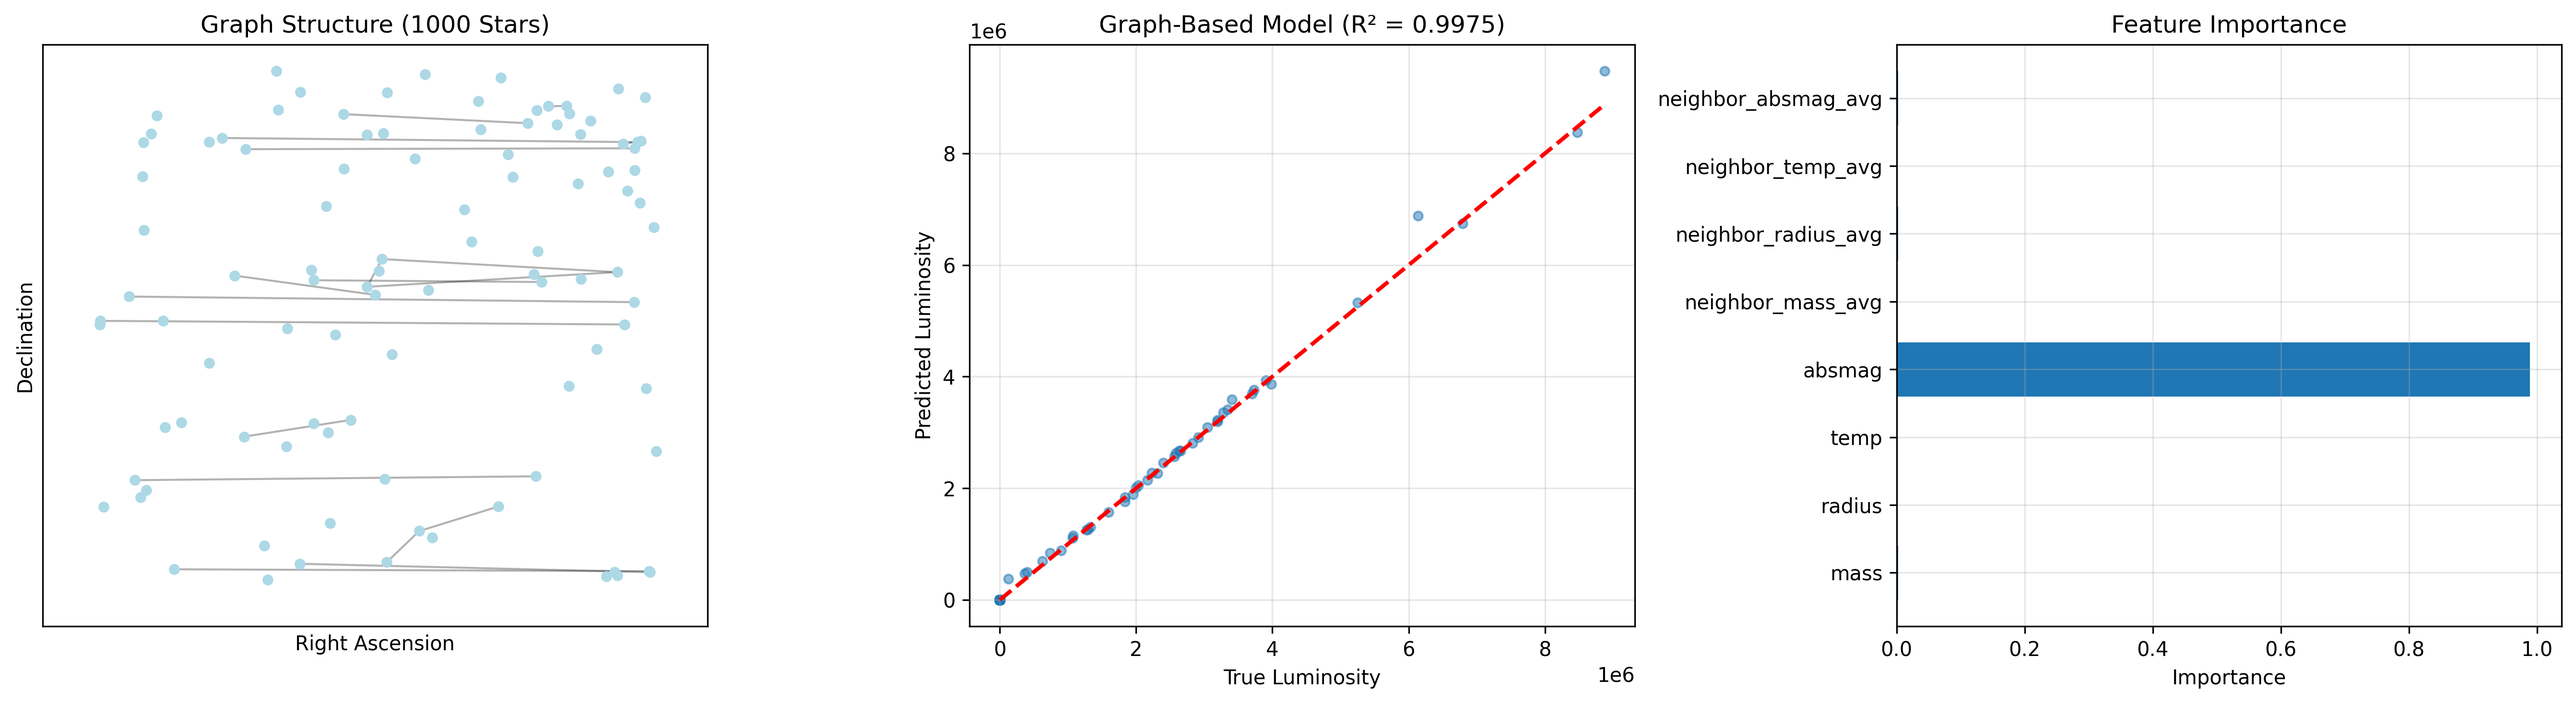
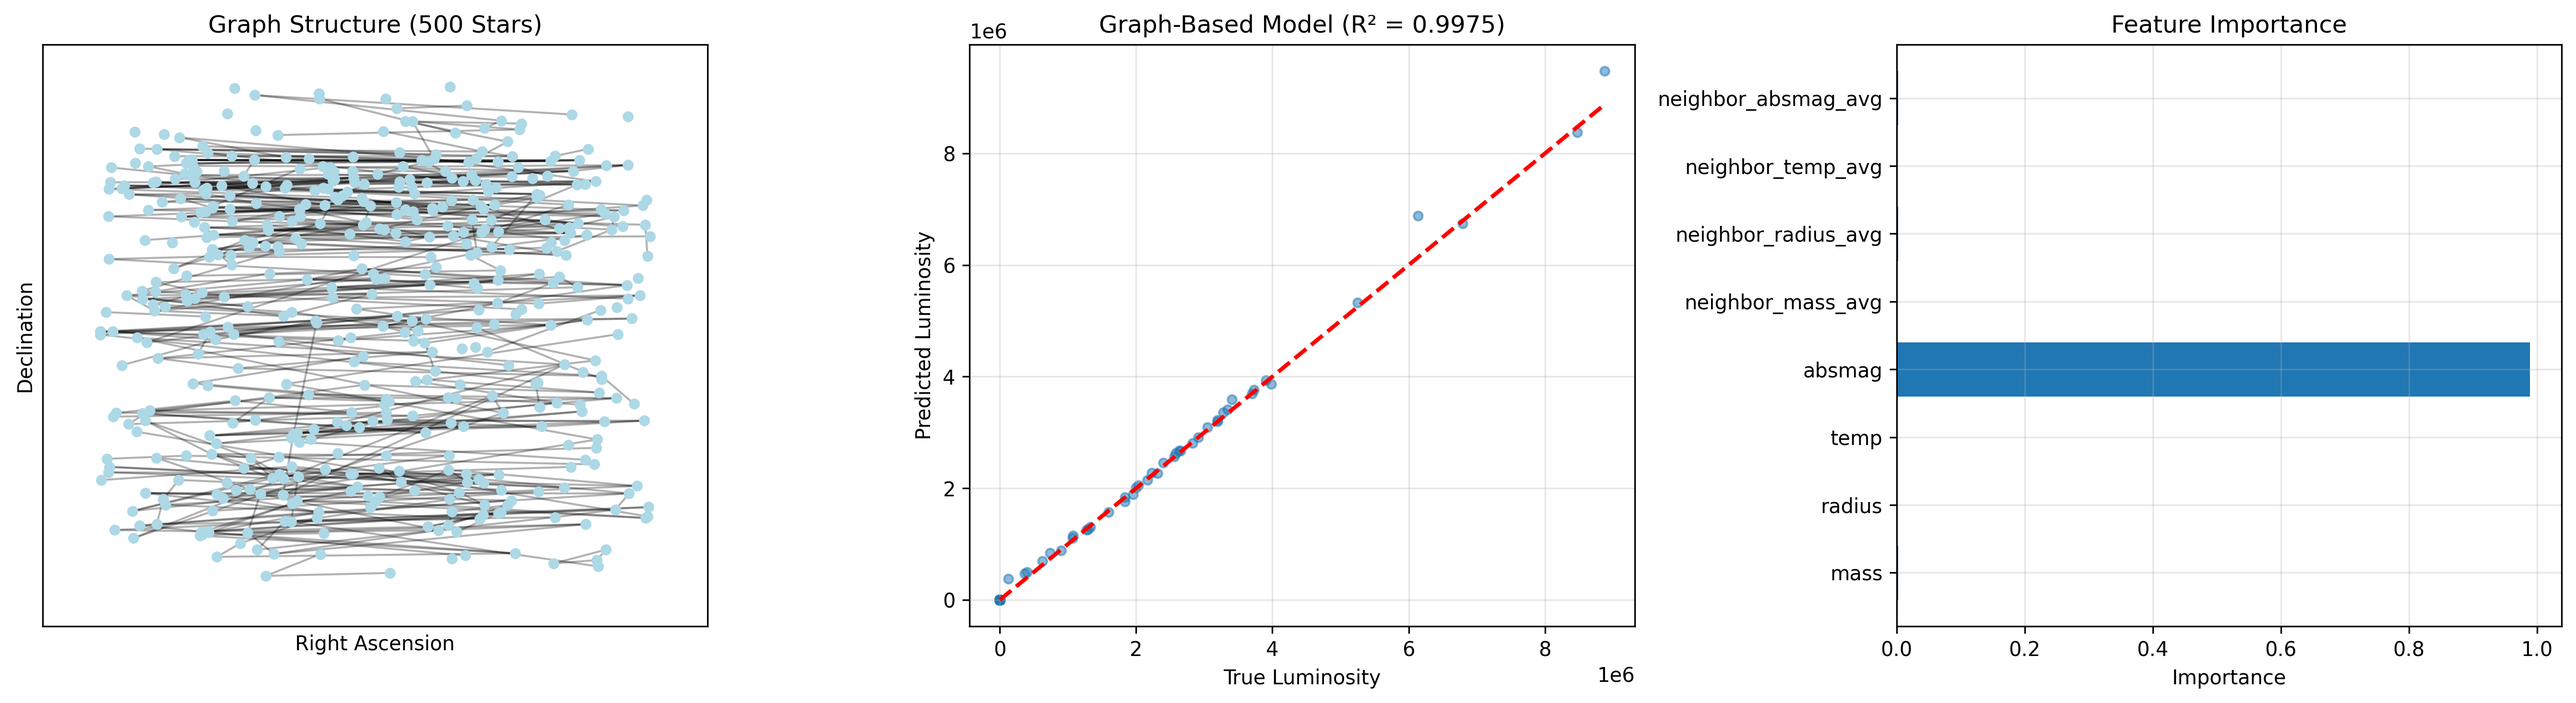
Comments

Changed region(s): [[0.0311, 0.1228, 0.2799, 0.8288], [0.0622, 0.0, 0.2177, 0.0614]]

diff --git a/model/star_model.py b/model/star_model.py
@@ -45,11 +45,6 @@ class MLModel(ABC):
         self.y_pred = None #Predictions
         self.feature_names = [] #Features to be analyzed and learned from by the model
 
-    # @abstractmethod
-    # def execute_model(self):
-    #     pass
-    #     #Each model defines this
-
     @abstractmethod
     def set_data(self):
         pass
@@ -159,14 +154,6 @@ class TradModel(MLModel):
         self.feature_names = self.required_features.copy() #Feature names
         # (A copy of the features so the features themselves can be accessed without the names being affected.)
 
-    # def execute_model(self):
-    #     print(f"\nExecuting Traditional ML Model...\n") # Context
-    #     self.set_data()
-    #     self.train_model()
-    #     self.evaluate_model()
-    #     self.visualize_model()
-    #     self.get_featimp()
-    #     print('=='*60)
 
     #Sets the data to be used
     def set_data(self):
@@ -331,9 +318,9 @@ class TradModel(MLModel):
 '''================================================================================================================================================================'''
 
 class GraphModel(MLModel):
-    #All aspects not explicitly explained are such because they have been explained in the previous model
+    # All aspects not explicitly explained are such because they have been explained in the previous model
 
-    #K-Neighbors are the 5 closest neighbors in terms of value similarity
+    #K-Neighbors are the 5 closest neighbors in 3D space
     def __init__(self, csv_path=file_path, nrows=None, k_neighbors=5):
         super().__init__(csv_path, nrows)
         self.required_features = ['ra', 'dec', 'mass', 'radius', 'temp', 'dist', 'absmag', 'lum']
@@ -342,14 +329,6 @@ class GraphModel(MLModel):
         # Certain features will be added by the model itself, so their names are specified here.
         self.feature_names = ['mass', 'radius', 'temp', 'absmag', 'neighbor_mass_avg', 'neighbor_radius_avg', 'neighbor_temp_avg', 'neighbor_absmag_avg']
 
-    # def execute_model(self):
-    #     print(f"\nExecuting NetworkX Graph-based ML Model...\n")
-    #     self.set_data()
-    #     self.train_model()
-    #     self.evaluate_model()
-    #     self.visualize_model()
-    #     self.get_featimp()
-    #     print('=='*60)
 
 
     def set_data(self):
@@ -375,11 +354,14 @@ class GraphModel(MLModel):
                                 dec=row['dec']
                                 )
 
-        #Sets it's coordinates in space
+        # Sets its coordinates in space (x, y, z)
         coords = cleandata[['ra', 'dec', 'dist']].values
+
+        # Finds the nearest neighbors to each given star using the coordinates
         nbrs = NearestNeighbors(n_neighbors=self.k_neighbors + 1, algorithm='ball_tree').fit(coords)
         distances, indices = nbrs.kneighbors(coords)
 
+        # Adds edges between neighbors based on how close they are to each other in 3D space
         for i, neighbors in enumerate(indices):
             for j, neighbor_index in enumerate(neighbors[1:]):  # Skip self
                 if i < neighbor_index:  # Avoid duplicate edges
@@ -388,7 +370,7 @@ class GraphModel(MLModel):
 
         print(f"  Graph: {self.graph.number_of_nodes()} nodes, {self.graph.number_of_edges()} edges")
 
-        # Extract features from graph
+        # Obtains node features from the graph
         print(f"  Extracting features from graph...")
 
         node_features = []
@@ -399,32 +381,34 @@ class GraphModel(MLModel):
                 self.graph.nodes[node]['mass'],
                 self.graph.nodes[node]['radius'],
                 self.graph.nodes[node]['temp'],
-                #self.graph.nodes[node]['dist'],
                 self.graph.nodes[node]['absmag']
             ]
 
-            # Add neighborhood aggregation features
+            # Adds neighborhood aggregation features as a list
             neighbors = list(self.graph.neighbors(node))
             if neighbors:
                 neighbor_masses = [self.graph.nodes[n]['mass'] for n in neighbors]
                 neighbor_radii = [self.graph.nodes[n]['radius'] for n in neighbors]
                 neighbor_temps = [self.graph.nodes[n]['temp'] for n in neighbors]
-                #neighbor_dist = [self.graph.nodes[n]['dist'] for n in neighbors]
                 neighbor_absmag = [self.graph.nodes[nodes]['absmag'] for nodes in neighbors]
 
                 features.extend([
                     np.mean(neighbor_masses),
                     np.mean(neighbor_radii),
                     np.mean(neighbor_temps),
-                    #np.mean(neighbor_dist),
                     np.mean(neighbor_absmag)
                 ])
             else:
-                features.extend([0.0, 0.0, 0.0, 0.0, 0.0])
+                features.extend([0.0, 0.0, 0.0, 0.0])
 
+            # Adds individual and neighborhood features to the empty feature array to
+            # create an array with all the necessary data for prediction.
+            # Fills the target array with the lum value of every node.
             node_features.append(features)
             node_targets.append(self.graph.nodes[node]['lum'])
 
+        # Undergoes the main data setting process, splitting the data into training and testing sets and scaling the
+        # data for normalization.
         X = np.array(node_features)
         y = np.array(node_targets)
 
@@ -439,6 +423,7 @@ class GraphModel(MLModel):
         if self.graph is None:
             self.set_data()
 
+        # Trains the data much in the same way the previous model did.
         print(f"\nTraining Graph-Based Random Forest Model...")
         self.model = RandomForestRegressor(n_estimators=100, random_state=42, n_jobs=-1)
         self.model.fit(self.X_train, self.y_train)
@@ -452,18 +437,20 @@ class GraphModel(MLModel):
 
         fig, axes = plt.subplots(1, 3, figsize=(18, 5))
 
-        sample_nodes = list(self.graph.nodes())[:100]
+        # The first graph is a plotting of 500 stars from the NetworkX graph and their distance based edges.
+        # Its purpose is to show the network of connections that the model used to make its predictions.
+        sample_nodes = list(self.graph.nodes())[:500]
         subgraph = self.graph.subgraph(sample_nodes)
         pos = {node: (self.graph.nodes[node]['ra'], self.graph.nodes[node]['dec'])
                for node in subgraph.nodes()}
 
-        axes[0].set_title("Graph Structure (1000 Stars)")
+        axes[0].set_title("Graph Structure (500 Stars)")
         nx.draw_networkx_nodes(subgraph, pos, node_size=20, node_color='lightblue', ax=axes[0])
         nx.draw_networkx_edges(subgraph, pos, alpha=0.3, ax=axes[0])
         axes[0].set_xlabel('Right Ascension')
         axes[0].set_ylabel('Declination')
 
-
+        # R² Graph
         axes[1].scatter(self.y_test, self.y_pred, alpha=0.5, s=20)
         axes[1].plot([self.y_test.min(), self.y_test.max()],
                      [self.y_test.min(), self.y_test.max()], 'r--', lw=2)
@@ -473,7 +460,7 @@ class GraphModel(MLModel):
         axes[1].set_title(f'Graph-Based Model (R² = {r2:.4f})')
         axes[1].grid(True, alpha=0.3)
 
-
+        # Feature importance graph
         axes[2].barh(self.feature_names, self.model.feature_importances_)
         axes[2].set_xlabel('Importance')
         axes[2].set_title('Feature Importance')
@@ -481,8 +468,6 @@ class GraphModel(MLModel):
 
         plt.tight_layout()
         plt.savefig(filename, dpi=300, bbox_inches='tight')
-
-        #nx.write_gpickle(self.graph, 'stellar_luminosity_graph.gpickle')
 
 '''================================================================================================================================================================'''
 '''================================================================================================================================================================'''
@@ -492,37 +477,33 @@ class ClusterModel(MLModel):
     def __init__(self, csv_path=file_path, nrows=30000, n_clusters=10):
         super().__init__(csv_path, nrows)
         self.required_features = ['mass', 'radius', 'temp', 'dist', 'ra', 'dec', 'absmag', 'lum']
-        self.n_clusters = n_clusters
+        self.n_clusters = n_clusters # Sets the amount of clusters it will split stars into
         self.cluster_model = None
         self.cluster_labels = None
+        # Names of the required data, including data created by the model itself
         self.feature_names = ['mass', 'radius', 'temp', 'dist', 'ra', 'dec', 'absmag', 'cluster_id',
                               'cluster_avg_mass', 'cluster_avg_radius', 'cluster_avg_temp', 'cluster_avg_dist',
                               'cluster_avg_ra', 'cluster_avg_dec', 'cluster_avg_absmag']
 
 
-    # def execute_model(self):
-    #     print(f"\nExecuting NetworkX Graph-based ML Model...\n")
-    #     self.set_data()
-    #     self.train_model()
-    #     self.evaluate_model()
-    #     self.visualize_model()
-    #     self.get_featimp()
-    #     print('==' * 60)
 
 
     def set_data(self):
 
         print(f"\nPreparing data for Cluster-Based ML Model...")
 
+        # Cleans the data much like the previous models did
         cleandata = self.stardata.dropna(subset=self.required_features).reset_index(drop=True)
 
         print(f"  Stars after filtering: {len(cleandata)}")
 
         clustering_features = cleandata[['mass', 'radius', 'temp', 'dist', 'ra', 'dec', 'absmag']].values
 
+        # Scales the data for normalization
         scaler_cluster = StandardScaler()
         clustering_features_scaled = scaler_cluster.fit_transform(clustering_features)
 
+        # Groups the stars into clusters based on feature similarities
         print(f"  Performing K-Means clustering (k={self.n_clusters})...")
         self.cluster_model = KMeans(n_clusters=self.n_clusters, random_state=42, n_init=10)
         self.cluster_labels = self.cluster_model.fit_predict(clustering_features_scaled)

diff --git a/model/data_add.py b/model/data_add.py
@@ -1,9 +1,6 @@
-"""
-mast_bulk_xmatch.py - Fixed Version
-Performs a bulk crossmatch of hyg_v42.csv against the TIC catalog on MAST.
-Uses batch queries with rate limiting for reliability.
-"""
+# Bulk crossmatch of hyg_v42.csv against the TIC catalog on MAST.
 
+# Necessary imports
 import pandas as pd
 import numpy as np
 import math
@@ -13,7 +10,7 @@ from astropy.coordinates import SkyCoord
 from astropy import units as u
 from tqdm import tqdm
 
-# --- CONFIG ---
+# Essential Data
 INPUT_CSV = "hyg_v42.csv"
 OUTPUT_CSV = "hyg_v42_updated.csv"
 SEARCH_RADIUS_ARCSEC = 30
@@ -22,9 +19,9 @@ EPOCH_TIC = 2015.5
 YEARS = EPOCH_TIC - EPOCH_HYG
 BATCH_SIZE = 100  # Process in batches to avoid timeouts
 
-# TEST MODE: Set to a number to process only first N rows (e.g., 10 for testing)
+# Set limit to a number (N) to process only first N rows
 # Set to None to process all rows
-TEST_LIMIT = None  # Change to None for full run
+TEST_LIMIT = None
 
 # Column names in your HYG file
 COL_RA = "ra"
@@ -34,9 +31,9 @@ COL_PMDEC = "pmdec"
 
 
 def pm_propagate(ra_deg, dec_deg, pmra_masyr, pmdec_masyr, years=YEARS):
-    """
-    Propagate (RA,Dec) from epoch 2000.0 to epoch 2015.5 using proper motion.
-    """
+
+    # Propagate (RA,Dec) from epoch 2000.0 to epoch 2015.5 using proper motion.
+
     try:
         if np.isnan(pmra_masyr) or np.isnan(pmdec_masyr):
             return ra_deg, dec_deg
@@ -53,10 +50,10 @@ def pm_propagate(ra_deg, dec_deg, pmra_masyr, pmdec_masyr, years=YEARS):
 
 
 def query_tic_cone(ra, dec, radius_arcsec=SEARCH_RADIUS_ARCSEC):
-    """
-    Query TIC catalog for a single coordinate using cone search.
-    Returns the closest match within radius.
-    """
+
+    # Query TIC catalog for a single coordinate using cone search.
+    # Returns the closest match within radius.
+
     try:
         coord = SkyCoord(ra=ra*u.deg, dec=dec*u.deg, frame='icrs')
         result = Catalogs.query_region(
@@ -94,9 +91,9 @@ def query_tic_cone(ra, dec, radius_arcsec=SEARCH_RADIUS_ARCSEC):
 
 
 def run_bulk_crossmatch(input_csv_path, output_csv_path):
-    """
-    Main crossmatch function using batched cone searches.
-    """
+
+    # Crossmatch function using batched cone searches.
+
     # Load input CSV
     stardata = pd.read_csv(input_csv_path)
     print(f"Loaded {len(stardata)} rows from {input_csv_path}")
@@ -166,22 +163,6 @@ def run_bulk_crossmatch(input_csv_path, output_csv_path):
     print(f"Output saved to: {output_csv_path}")
 
     return output_csv_path
-
-
-def run_batch_crossmatch_alternative(input_csv_path, output_csv_path):
-    """
-    Alternative method using Catalogs.query_criteria for batch processing.
-    Use this if the cone search method is too slow.
-    """
-    stardata = pd.read_csv(input_csv_path)
-    print(f"Loaded {len(stardata)} rows from {input_csv_path}")
-
-    # This method queries larger regions and filters locally
-    # Useful for clustered data
-    print("Note: This is a faster alternative for large datasets with clustered positions")
-    print("Using the standard cone search method instead (more accurate)...")
-
-    return run_bulk_crossmatch(input_csv_path, output_csv_path)
 
 
 if __name__ == "__main__":

diff --git a/star_map_main.py b/star_map_main.py
@@ -2,6 +2,8 @@ import importlib.util
 import os
 import sys
 
+from model.star_model import GraphModel, ClusterModel
+
 # Path setup: project root
 PROJECT_ROOT = os.path.dirname(os.path.abspath(__file__))
 if PROJECT_ROOT not in sys.path:
@@ -20,7 +22,17 @@ StarModel = import_from_path("star_model", os.path.join(PROJECT_ROOT, "model", "
 
 # Run the Streamlit app
 if __name__ == "__main__":
-    traditional_model = StarModel.TradModel(nrows=5000)
-    trainer = StarModel.ModelTrainer(traditional_model)
+
+    graph_model = GraphModel(nrows=5000, k_neighbors=5)
+    trainer = StarModel.ModelTrainer(graph_model)
     trainer.run_training_pipeline()
+
+    cluster_model = ClusterModel(nrows=5000, n_clusters=10)
+    trainer.set_strategy(cluster_model)
+    trainer.run_training_pipeline()
+
+    traditional_model = StarModel.TradModel(nrows=5000)
+    trainer.set_strategy(traditional_model)
+    trainer.run_training_pipeline()
+
     View.view(traditional_model)
